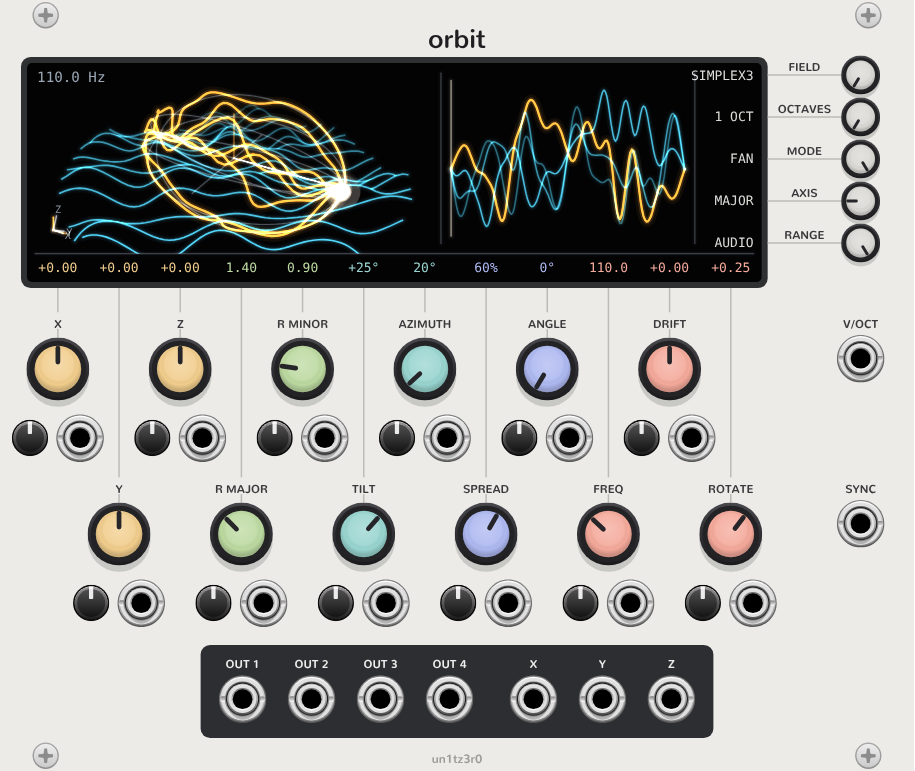
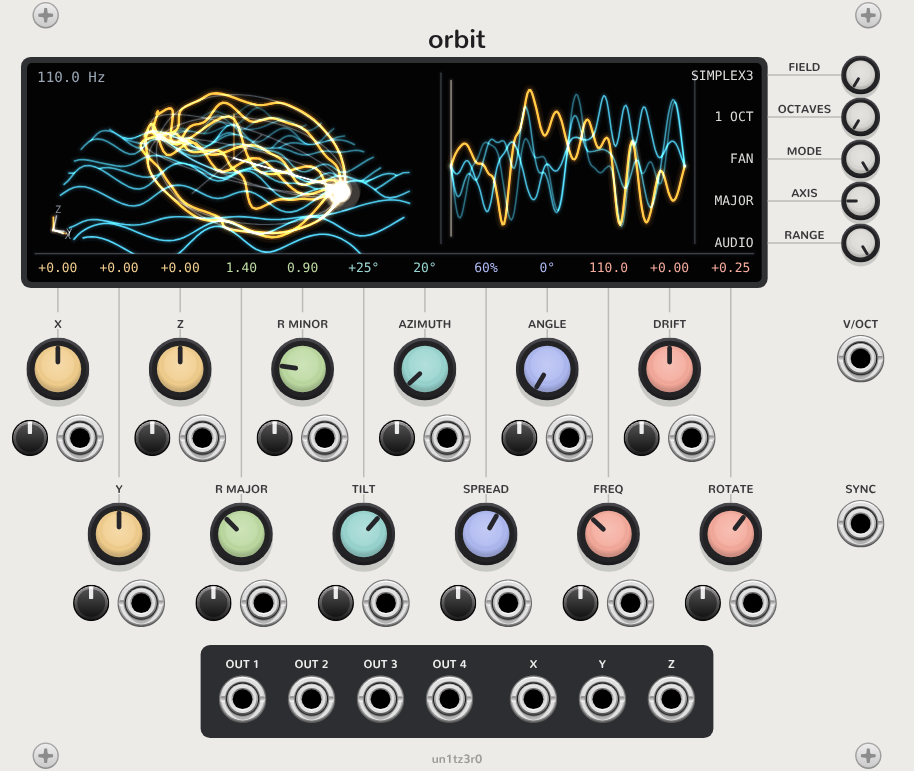
Mark phase 3 done, anti-alias Orbit, and fix steps in the 3D noise (#4)
* Mark phase 3 done, tested in Rack on linux-x64: 2.3.0

Claude-Session: https://claude.ai/code/session_01EEVjbi162vPCN64xTgRejL

* Orbit: anti-aliasing by octave fade and adaptive oversampling: 2.3.1

Orbit read its field once a sample with no band-limiting, so its harmonics follow the detail the ring passes
through, not its pitch: with 4 octaves, anything above about 220 Hz folded back past Nyquist, and a low-pass
couldn't remove the inharmonic results. Octaves above the first now fade out before their detail reaches
Nyquist, and by default each output reads the first octave 1, 2 or 4 times a sample, as few as the ring's
speed allows, interpolated to 4x and decimated through a Blackman-windowed sinc. Folded content stays more
than 70 dB down from 220 Hz to 1.76 kHz. A context-menu setting can turn it off.
Surveys run every 512 samples instead of 256.

Claude-Session: https://claude.ai/code/session_01EEVjbi162vPCN64xTgRejL

* Fix steps in the 3D simplex noise that clicked once a cycle: 2.3.2

noise3 sums the nearest point of each of its two lattice copies and one neighbour, after the fast OpenSimplex2,
with a kernel reaching a squared radius of 0.6. Near cell boundaries other points come within that reach and
are left out, so the field stepped by up to about 0.005 there. A ring crossing one clicked at the same phase
every cycle, and the steps aliased into a floor about 75 dB down that oversampling couldn't touch. The kernel
[…]

Changed region(s): [[0.0612, 0.0934, 0.459, 0.3424], [0.4896, 0.1245, 0.765, 0.3113]]

diff --git a/src/core/Orbit.hpp b/src/core/Orbit.hpp
@@ -1,6 +1,7 @@
 #pragma once
 #include <algorithm>
 #include <vector>
+#include "Decimator.hpp"
 #include "Phasor.hpp"
 #include "Ring.hpp"
 
@@ -98,10 +99,24 @@ struct RingSurvey {
 	}
 };
 
+// The length of an ellipse, by Ramanujan's approximation.
+inline double perimeter(const Ring& r) {
+	const double a = std::abs(r.major), b = std::abs(r.minor);
+	return PI * (3 * (a + b) - std::sqrt((3 * a + b) * (a + 3 * b)));
+}
+
+// How an orbit voice keeps its outputs from aliasing. Fade: octaves above the first fade out before their detail
+// reaches Nyquist. Auto adds oversampling for the first octave, which can't fade: each output is read 1, 2 or 4 times
+// a sample, as few as the ring's speed through the field allows, interpolated up to 4 and filtered back down.
+struct Antialias {
+	enum Level { OFF, FADE, AUTO, LEVELS };
+	static constexpr const char* NAMES[LEVELS] = {"Off", "Octave fade", "Octave fade + auto oversampling"};
+};
+
 // One voice of an orbit oscillator. Outputs are optionally centered and normalized to about [-1, 1]
 // using surveys of each ring taken every SURVEY_PERIOD samples, eased in so parameter changes don't click.
 struct OrbitVoice {
-	static constexpr int MAX_OUTPUTS = 8, SURVEY_PERIOD = 256;
+	static constexpr int MAX_OUTPUTS = 8, SURVEY_PERIOD = 512, OVERSAMPLE = Decimator::MAX_FACTOR;
 	static constexpr double EASE_SECONDS = 0.01;
 
 	Phasor phasor;
@@ -110,36 +125,81 @@ struct OrbitVoice {
 	float offset[MAX_OUTPUTS] = {}, gain[MAX_OUTPUTS] = {}, targetOffset[MAX_OUTPUTS] = {}, targetGain[MAX_OUTPUTS] = {};
 	int countdown = 0;
 	bool primed = false;
+	Antialias::Level antialias = Antialias::OFF;
+	Decimator decimators[MAX_OUTPUTS];
+	float last[MAX_OUTPUTS] = {}; // each output's latest oversampled read, which the next sample interpolates from
+
+	void setAntialias(Antialias::Level level) {
+		if (level == antialias)
+			return;
+		antialias = level;
+		for (Decimator& d : decimators)
+			d = Decimator(level == Antialias::AUTO ? OVERSAMPLE : 1);
+	}
 
 	// Writes shape.count outputs, skipping those whose bit in `wanted` is clear, then advances the phase.
 	// Returns the phase the outputs were read at.
 	template <class Field>
 	double process(const OrbitShape& shape, const Field& field, double hz, double dt, bool center, bool normalize, float* out,
 	               unsigned wanted = ~0u) {
+		const int count = std::min(shape.count, MAX_OUTPUTS);
+		Ring rings[MAX_OUTPUTS];
+		Field fields[MAX_OUTPUTS];
+		int factor[MAX_OUTPUTS];
+		for (int k = 0; k < count; ++k) {
+			rings[k] = k > 0 && shape.shared() ? rings[0] : shape.ringFor(k);
+			factor[k] = 1;
+			fields[k] = field;
+			// The read covers perimeter·hz units a second, so detail finer than that over Nyquist would alias.
+			const double speed = perimeter(rings[k]) * hz, nyquist = 0.5 / dt;
+			if (antialias == Antialias::OFF || speed <= 0)
+				continue;
+			if (antialias == Antialias::AUTO)
+				for (const double need = field.detail() * speed / nyquist; factor[k] < OVERSAMPLE && need > 0.5 * factor[k];)
+					factor[k] *= 2;
+			fields[k] = field.limited(factor[k] * nyquist / speed);
+		}
 		if (--countdown < 0) {
 			countdown = SURVEY_PERIOD;
-			survey(shape, field, center, normalize);
+			survey(shape, rings, fields, center, normalize);
 		}
 		const float ease = float(std::min(1.0, dt / EASE_SECONDS));
 		const double phase = phasor.phase;
-		for (int k = 0; k < shape.count; ++k) {
+		for (int k = 0; k < count; ++k) {
 			offset[k] += (targetOffset[k] - offset[k]) * ease;
 			gain[k] += (targetGain[k] - gain[k]) * ease;
-			if (wanted >> k & 1)
-				out[k] = gain[k] * (field(shape.probe(k, phase)) - offset[k]);
+			if (!(wanted >> k & 1))
+				continue;
+			const auto read = [&](double at) { return fields[k](rings[k].at(shape.phaseFor(k, phase + hz * dt * at))); };
+			float value;
+			if (antialias != Antialias::AUTO)
+				value = read(0);
+			else {
+				// Reads land at the ends of equal steps through the sample, the last at its final quarter, and
+				// the quarters between are interpolated from them and from the last read of the sample before.
+				float sub[OVERSAMPLE];
+				const int step = OVERSAMPLE / factor[k];
+				for (int j = 0, end = step - 1; j < factor[k]; ++j, end += step) {
+					const float from = last[k], to = last[k] = read(double(end) / OVERSAMPLE);
+					for (int i = end - step + 1; i <= end; ++i)
+						sub[i] = from + (to - from) * float(i - end + step) / step;
+				}
+				value = decimators[k].process(sub);
+			}
+			out[k] = gain[k] * (value - offset[k]);
 		}
 		phasor.step(hz, dt);
 		return phase;
 	}
 
 	template <class Field>
-	void survey(const OrbitShape& shape, const Field& field, bool center, bool normalize) {
-		for (int k = 0; k < shape.count; ++k) {
+	void survey(const OrbitShape& shape, const Ring* rings, const Field* fields, bool center, bool normalize) {
+		for (int k = 0; k < std::min(shape.count, MAX_OUTPUTS); ++k) {
 			if (k > 0 && shape.shared()) {
 				targetOffset[k] = targetOffset[0], targetGain[k] = targetGain[0];
 				continue;
 			}
-			const RingSurvey s(shape.ringFor(k), field);
+			const RingSurvey s(rings[k], fields[k]);
 			targetOffset[k] = center ? s.mean : 0.f;
 			targetGain[k] = normalize ? 1.f / std::max({s.hi - targetOffset[k], targetOffset[k] - s.lo, 0.05f}) : 1.f;
 		}

diff --git a/src/Orbit.cpp b/src/Orbit.cpp
@@ -21,6 +21,7 @@ struct Orbit : Module {
 	float perVolt[MODS];
 	int64_t seed = 0;
 	int accent = 0; // of cxo::Theme::ACCENTS
+	int antialias = cxo::Antialias::AUTO;
 	bool center = true, normalize = true, autoRotate = true, showStrip = true;
 
 	// Channel 0's state for the display, double-buffered so the UI thread never reads a half-written one.
@@ -82,6 +83,7 @@ struct Orbit : Module {
 
 		for (int c = 0; c < channels; ++c) {
 			Voice& v = voices[c];
+			v.setAntialias(cxo::Antialias::Level(antialias));
 			const auto mod = [&](int id) {
 				return double(params[id].getValue() + inputs[CV_INPUT + id].getPolyVoltage(c) * params[ATTEN_PARAM + id].getValue() * perVolt[id]);
 			};
@@ -132,6 +134,7 @@ struct Orbit : Module {
 			v = Voice();
 		seed = 0;
 		accent = 0;
+		antialias = cxo::Antialias::AUTO;
 		center = normalize = autoRotate = showStrip = true;
 	}
 
@@ -144,6 +147,7 @@ struct Orbit : Module {
 		json_t* root = json_object();
 		json_object_set_new(root, "seed", json_integer(seed));
 		json_object_set_new(root, "accent", json_integer(accent));
+		json_object_set_new(root, "antialias", json_integer(antialias));
 		json_object_set_new(root, "center", json_boolean(center));
 		json_object_set_new(root, "normalize", json_boolean(normalize));
 		json_object_set_new(root, "autoRotate", json_boolean(autoRotate));
@@ -156,6 +160,8 @@ struct Orbit : Module {
 			seed = json_integer_value(j);
 		if (json_t* j = json_object_get(root, "accent"))
 			accent = json_integer_value(j);
+		if (json_t* j = json_object_get(root, "antialias"))
+			antialias = std::clamp(int(json_integer_value(j)), 0, cxo::Antialias::LEVELS - 1);
 		for (auto [key, flag] : {std::pair{"center", &center}, {"normalize", &normalize}, {"autoRotate", &autoRotate}, {"showStrip", &showStrip}})
 			if (json_t* j = json_object_get(root, key))
 				*flag = json_boolean_value(j);
@@ -233,6 +239,7 @@ struct OrbitWidget : ModuleWidget {
 		menu->addChild(new MenuSeparator);
 		menu->addChild(createBoolPtrMenuItem("Remove DC offset", "", &module->center));
 		menu->addChild(createBoolPtrMenuItem("Normalize level", "", &module->normalize));
+		menu->addChild(createIndexPtrSubmenuItem("Anti-aliasing", std::vector<std::string>(std::begin(cxo::Antialias::NAMES), std::end(cxo::Antialias::NAMES)), &module->antialias));
 		menu->addChild(createMenuItem("New noise seed", string::f("%lld", (long long)module->seed), [=] { module->seed = random::u32(); }));
 		menu->addChild(new MenuSeparator);
 		menu->addChild(createMenuLabel("Display"));

diff --git a/tools/render.cpp b/tools/render.cpp
@@ -30,6 +30,7 @@ struct Options {
 	int outputs = 1;
 	double spread = 0.5, angle = 0; // angle in degrees
 	bool removeDc = true, normalize = true;
+	int antialias = Antialias::AUTO;
 	int frames = 1;
 	double fps = 30, camAzimuth = -60, camElevation = 29, camOrbit = 0, viewRate = 0.25; // viewRate: probe cycles/s shown in frames
 	float width = 723, height = 216; // twice the module's display
@@ -54,7 +55,7 @@ static Options parse(int argc, char** argv) {
 		{"center", vec(&o.center.x, &o.center.y, &o.center.z)}, {"radii", vec(&o.major, &o.minor)},
 		{"orient", vec(&o.tilt, &o.azimuth)}, {"drift", val(o.drift)}, {"rotate", val(o.rotate)}, {"axis", val(o.axis)},
 		{"mode", val(o.mode)}, {"outputs", val(o.outputs)}, {"spread", val(o.spread)}, {"angle", val(o.angle)},
-		{"remove-dc", val(o.removeDc)}, {"normalize", val(o.normalize)},
+		{"remove-dc", val(o.removeDc)}, {"normalize", val(o.normalize)}, {"antialias", val(o.antialias)},
 		{"frames", val(o.frames)}, {"fps", val(o.fps)}, {"cam", vec(&o.camAzimuth, &o.camElevation)},
 		{"cam-orbit", val(o.camOrbit)}, {"size", vec(&o.width, &o.height)}, {"view-rate", val(o.viewRate)}, {"out", val(o.out)},
 		{"panel", val(o.panel)}, {"rack", val(o.rack)}, {"panel-scale", val(o.panelScale)}, {"accent", val(o.accent)},
@@ -68,6 +69,8 @@ static Options parse(int argc, char** argv) {
 	}
 	if (!o.panel.empty() && o.panel != "light" && o.panel != "dark")
 		throw std::invalid_argument("panel must be light or dark");
+	if (o.antialias < 0 || o.antialias >= Antialias::LEVELS)
+		throw std::invalid_argument("antialias must be 0 to " + std::to_string(Antialias::LEVELS - 1));
 	if (o.outputs < 1 || o.outputs > OrbitVoice::MAX_OUTPUTS)
 		throw std::invalid_argument("outputs must be 1 to " + std::to_string(OrbitVoice::MAX_OUTPUTS));
 	return o;
@@ -161,6 +164,7 @@ int main(int argc, char** argv) {
 
 		std::vector<float> frames(length * channels);
 		OrbitVoice voice;
+		voice.setAntialias(Antialias::Level(o.antialias));
 		for (size_t i = 0; i < length; ++i)
 			voice.process(shapeAt(o, i / o.rate), field, o.freq, 1 / o.rate, o.removeDc, o.normalize, &frames[i * channels]);
 		writeWav(o.out + ".wav", frames, channels, int(o.rate));

diff --git a/src/core/Decimator.hpp b/src/core/Decimator.hpp
@@ -1,0 +1,41 @@
+#pragma once
+#include <cmath>
+#include "Vec.hpp"
+
+namespace cxo {
+
+// Brings a signal oversampled by 2 or 4 back to the base rate through a Blackman-windowed sinc low-pass that is flat
+// to about 18 kHz at 48 kHz and over 70 dB down from where it would fold back below 20 kHz. Factor 1 passes through.
+struct Decimator {
+	static constexpr int MAX_FACTOR = 4, TAPS_PER_FACTOR = 32, MAX_TAPS = MAX_FACTOR * TAPS_PER_FACTOR;
+
+	int factor = 1, taps = 0, at = 0;
+	float kernel[MAX_TAPS] = {}, history[2 * MAX_TAPS] = {}; // history holds the taps twice over, so a window of it is contiguous
+
+	explicit Decimator(int factor = 1) : factor(factor), taps(factor > 1 ? TAPS_PER_FACTOR * factor : 0) {
+		const double cutoff = 0.48 / factor; // in cycles per oversampled sample
+		double sum = 0;
+		for (int i = 0; i < taps; ++i) {
+			const double t = i - 0.5 * (taps - 1), x = TAU * cutoff * t, w = TAU * i / (taps - 1);
+			sum += kernel[i] = float((x == 0 ? 1 : std::sin(x) / x) * (0.42 - 0.5 * std::cos(w) + 0.08 * std::cos(2 * w)));
+		}
+		for (int i = 0; i < taps; ++i)
+			kernel[i] = float(kernel[i] / sum);
+	}
+
+	// Takes `factor` samples, oldest first, and returns one.
+	float process(const float* in) {
+		if (taps == 0)
+			return in[0];
+		for (int i = 0; i < factor; ++i) {
+			history[at] = history[at + taps] = in[i];
+			at = (at + 1) % taps;
+		}
+		float y = 0;
+		for (int i = 0; i < taps; ++i)
+			y += kernel[i] * history[at + i];
+		return y;
+	}
+};
+
+} // namespace cxo

diff --git a/src/core/OpenSimplex2.hpp b/src/core/OpenSimplex2.hpp
@@ -5,7 +5,9 @@
 #include "Vec.hpp"
 
 // OpenSimplex2 (the fast variant) in 2D and 3D, after K.jpg's public-domain reference implementation.
-// Output lies roughly within [-1, 1]. noise3 uses the "ImproveXY" orientation: XY slices are isotropic,
+// Output lies roughly within [-1, 1]. noise3's kernel reaches a squared radius of 0.5 rather than the reference's 0.6:
+// it sums only the nearest point of each lattice copy and one neighbour, and at 0.6 other points come within reach
+// near cell boundaries, so the noise stepped there, clicking once a cycle wherever a ring crossed one. noise3 uses the "ImproveXY" orientation: XY slices are isotropic,
 // which leaves Z as the natural axis for evolving a planar slice over time.
 namespace cxo::os2 {
 
@@ -14,8 +16,8 @@ using u64 = uint64_t;
 constexpr u64 PRIME[3] = {0x5205402B9270C86Full, 0x598CD327003817B5ull, 0x5BCC226E9FA0BACBull};
 constexpr u64 HASH_MUL = 0x53A3F72DEEC546F5ull;
 constexpr u64 SEED_FLIP_3D = u64(-0x52D547B2E96ED629ll);
-constexpr float RSQ2 = 0.5f, RSQ3 = 0.6f;
-constexpr double NORM2 = 0.01001634121365712, NORM3 = 0.07969837668935331;
+constexpr float RSQ2 = 0.5f, RSQ3 = 0.5f;
+constexpr double NORM2 = 0.01001634121365712, NORM3 = 0.0304883; // NORM3: peak 1 over 4·10⁷ random points
 
 inline int floorInt(double x) {
 	const int i = int(x);

diff --git a/src/core/Field.hpp b/src/core/Field.hpp
@@ -1,4 +1,6 @@
 #pragma once
+#include <algorithm>
+#include <cmath>
 #include "OpenSimplex2.hpp"
 #include "Vec.hpp"
 
@@ -20,6 +22,18 @@ struct StockField {
 	int64_t seed = 0;
 	int octaves = 1;
 	float lacunarity = 2, gain = 0.5f;
+	// Octaves above the first fade out as their detail nears `limit` cycles per unit of path, and are skipped past it,
+	// so a path read too fast for them doesn't alias.
+	double limit = INFINITY;
+
+	// Cycles per unit of path up to which the first octave's spectrum stays above about -60 dB, measured on rings.
+	double detail() const { return kind == GYROID ? 1.4 : 4.4; }
+
+	StockField limited(double cyclesPerUnit) const {
+		StockField f = *this;
+		f.limit = cyclesPerUnit;
+		return f;
+	}
 
 	float octave(int i, Vec3 p) const {
 		switch (kind) {
@@ -31,11 +45,15 @@ struct StockField {
 
 	float operator()(Vec3 p) const {
 		float sum = 0, amp = 1, norm = 0;
+		double reach = limit / detail(); // in octave scale, where octave i is lacunarity^i
 		for (int i = 0; i < octaves; ++i) {
-			sum += amp * octave(i, p);
+			const float weight = i == 0 ? 1.f : float(std::clamp(2 - 2 / reach, 0.0, 1.0));
+			if (weight > 0)
+				sum += weight * amp * octave(i, p);
 			norm += amp;
 			amp *= gain;
 			p = p * lacunarity;
+			reach /= lacunarity;
 		}
 		return sum / norm;
 	}

diff --git a/README.md b/README.md
@@ -21,7 +21,8 @@ Orbit sweeps an elliptical ring through a 3D field (OpenSimplex2 in 3D or 2D, or
 - **X/Y/Z outputs.** The coordinates of output 1's sample point. Drift is left out so the voltages stay in range.
 - **Range and polyphony.** RANGE switches between LFO and audio. The module is polyphonic across V/OCT and every CV input. SYNC is a hard reset of the phase.
 - **Panel.** The twelve knobs sit in two rows, the second offset by half a step, each with its attenuverter and CV input beneath it. A wire runs from every knob up to the bottom of the screen, which shows that knob's value, CV included, where the wire arrives. The five selectors sit beside the screen and are wired to its right edge the same way. Panels follow Rack's dark-panel setting.
-- **Context menu.** DC removal and level normalization are both on by default. They come from a survey of each ring taken every 256 samples. The menu also has a new noise seed and the display options, including its color: cyan, green, amber, violet or white.
+- **Anti-aliasing.** Orbit's waveform has as much detail as the ring passes through, so fast or large rings, and higher octaves, would fold harmonics back past Nyquist. By default, octaves above the first fade out before their detail reaches Nyquist, and each output reads the first octave 1, 2 or 4 times a sample, as few as the ring's speed allows, before filtering back down. Folded-back content measures about 90 dB down from 110 Hz to 1.76 kHz on rings of radius 1 to 2, and 68 dB down at 1.76 kHz on a radius-3 ring, against as little as 4 dB down with it off. The context menu can turn the oversampling or both off.
+- **Context menu.** DC removal and level normalization are both on by default. They come from a survey of each ring taken every 512 samples. The menu also has the anti-aliasing setting, a new noise seed and the display options, including its color: cyan, green, amber, violet or white.
 - **Display.** The display shows the field slice as a relief, the ring lifted onto it (one cycle of the waveform wrapped around the ring), each output's probe with its stem height as its current value, world axes, and beside it an unrolled strip of the four waveforms. Drag it to orbit the camera. Audio-rate phase can't be drawn at frame rate, so above 2 Hz the probes turn at the pitch folded down by octaves to under 0.5 Hz.
 
 ![Orbit's display](docs/orbit-display.png)
@@ -62,6 +63,7 @@ This writes `demo.wav` (32-bit float, one channel per output, about ±1), `demo-
 | `--mode` | phase | Spread mode: `phase`, `pinch`, `stack`, `radial` or `fan`, as on the module |
 | `--outputs` `--spread` `--angle` | 1, 0.5, 0 | Output count, spread and angle (degrees), as on the module |
 | `--remove-dc` `--normalize` | 1, 1 | Center and normalize each output as the module does |
+| `--antialias` | 2 | 0 off, 1 octave fade, 2 octave fade and auto oversampling |
 | `--frames` `--fps` `--size w,h` | 1, 30, 723,216 | View frames to write, and their size (default is twice the module display) |
 | `--cam az,el` `--cam-orbit` | -60,29, 0 | Camera angles in degrees relative to the ring's plane, and orbit speed in degrees per second |
 | `--view-rate` | 0.25 | Probe speed in the view frames, in cycles per second |

diff --git a/TODO.md b/TODO.md
@@ -16,11 +16,11 @@ None reached yet. The first stable release will be milestone 1.
 - A Fundamental and vcvspeak style panel with knobs wired to their values on the screen.
 - Tested in Rack on linux-x64.
 
-## Phase 3: Orbit revisions
+## Phase 3: Orbit revisions (done)
 
 - Drop SPIN, which only duplicates ANGLE on a circular ring, for ROTATE: a rotation rate about an AXIS selector's choice of the ring's own axes or the world's.
 - Spread modes beyond phase and pinch: stack (along the normal), radial (concentric) and fan (hinged on a diameter).
-- Test in Rack on linux-x64.
+- Tested in Rack on linux-x64.
 
 ## Phase 4: Epicycle and Curve
 
